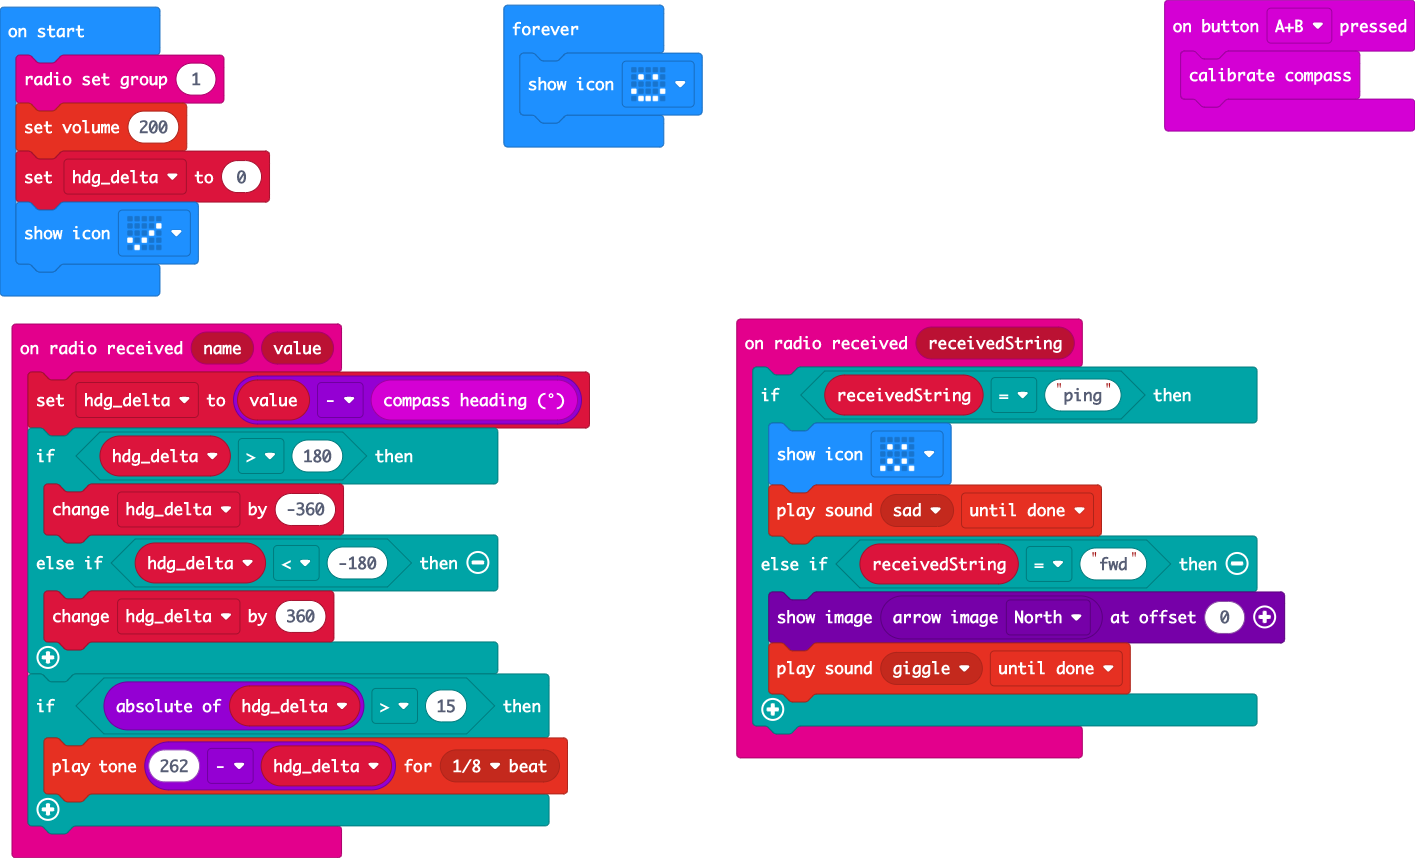
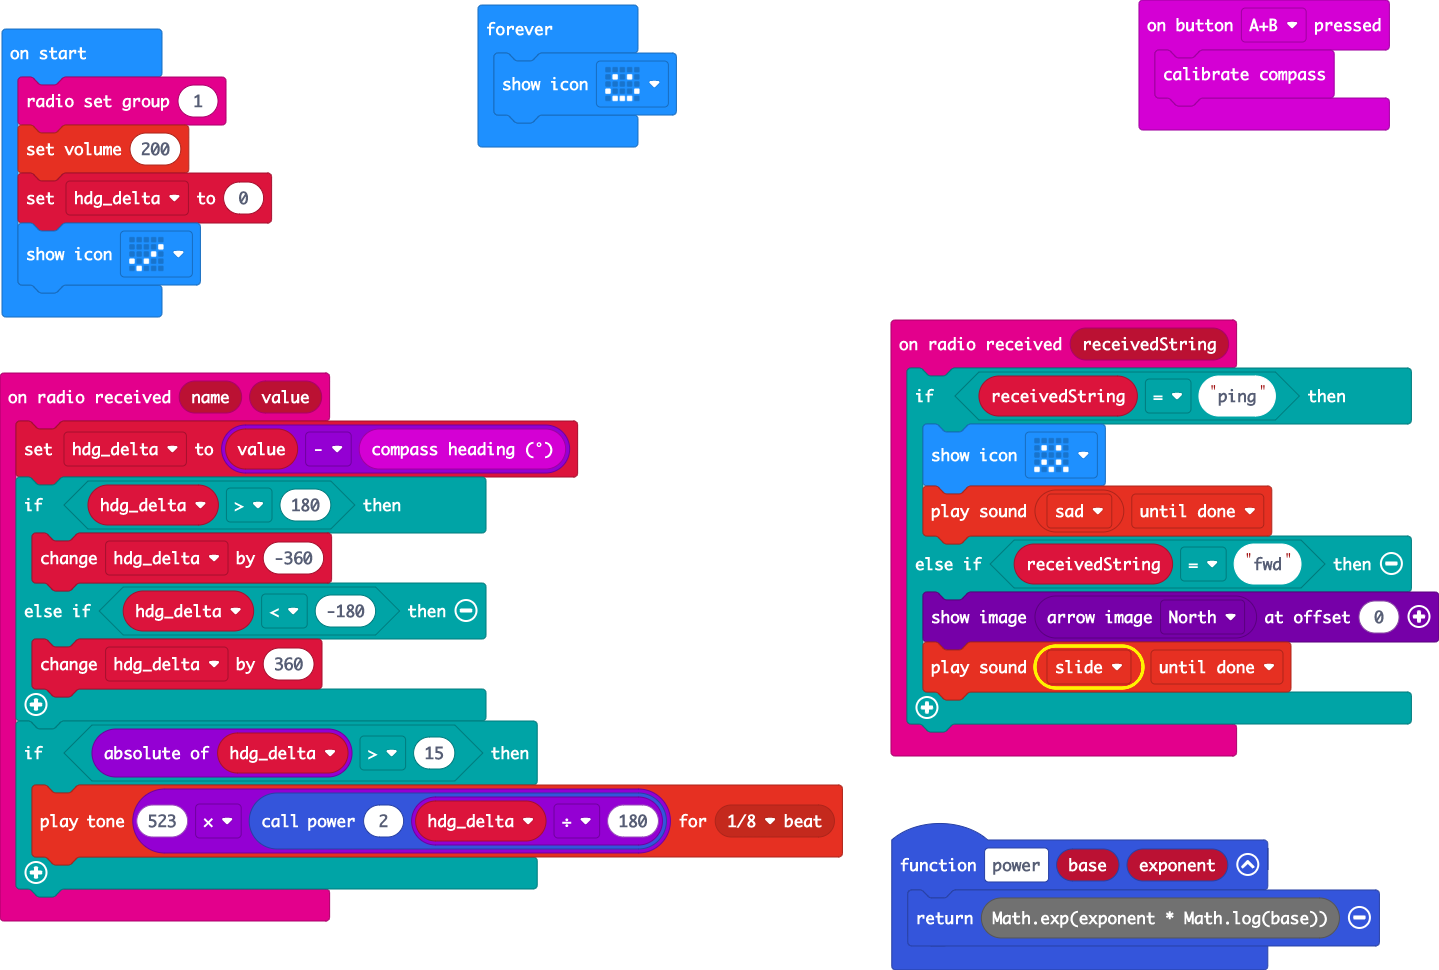
Make error tone span +/- 1 octave

diff --git a/main.ts b/main.ts
@@ -1,3 +1,6 @@
+function power (base: number, exponent: number) {
+    return Math.exp(exponent * Math.log(base))
+}
 input.onButtonPressed(Button.AB, function () {
     input.calibrateCompass()
 })
@@ -7,7 +10,7 @@ radio.onReceivedString(function (receivedString) {
         music.playSoundEffect(music.builtinSoundEffect(soundExpression.sad), SoundExpressionPlayMode.UntilDone)
     } else if (receivedString == "fwd") {
         images.arrowImage(ArrowNames.North).showImage(0)
-        music.playSoundEffect(music.builtinSoundEffect(soundExpression.giggle), SoundExpressionPlayMode.UntilDone)
+        music.playSoundEffect(music.builtinSoundEffect(soundExpression.slide), SoundExpressionPlayMode.UntilDone)
     }
 })
 radio.onReceivedValue(function (name, value) {
@@ -18,7 +21,7 @@ radio.onReceivedValue(function (name, value) {
         hdg_delta += 360
     }
     if (Math.abs(hdg_delta) > 15) {
-        music.playTone(262 - hdg_delta, music.beat(BeatFraction.Eighth))
+        music.playTone(523 * power(2, hdg_delta / 180), music.beat(BeatFraction.Eighth))
     }
 })
 let hdg_delta = 0

diff --git a/main.py b/main.py
@@ -1,0 +1,38 @@
+def on_button_pressed_ab():
+    input.calibrate_compass()
+input.on_button_pressed(Button.AB, on_button_pressed_ab)
+
+def on_received_string(receivedString):
+    if receivedString == "ping":
+        basic.show_icon(IconNames.CONFUSED)
+        music.play_sound_effect(music.builtin_sound_effect(soundExpression.sad),
+            SoundExpressionPlayMode.UNTIL_DONE)
+    elif receivedString == "fwd":
+        images.arrow_image(ArrowNames.NORTH).show_image(0)
+        music.play_sound_effect(music.builtin_sound_effect(soundExpression.giggle),
+            SoundExpressionPlayMode.UNTIL_DONE)
+radio.on_received_string(on_received_string)
+
+def on_received_value(name, value):
+    global hdg_delta
+    hdg_delta = value - input.compass_heading()
+    if hdg_delta > 180:
+        hdg_delta += -360
+    elif hdg_delta < -180:
+        hdg_delta += 360
+    serial.write_value("hdg_delta", hdg_delta)
+    serial.write_value("pow", 2 ** (hdg_delta / 180))
+    if abs(hdg_delta) > 15:
+        music.play_tone(523 * 2 ** (hdg_delta / 180),
+            music.beat(BeatFraction.EIGHTH))
+radio.on_received_value(on_received_value)
+
+hdg_delta = 0
+radio.set_group(1)
+music.set_volume(200)
+hdg_delta = 0
+basic.show_icon(IconNames.YES)
+
+def on_forever():
+    basic.show_icon(IconNames.HAPPY)
+basic.forever(on_forever)
